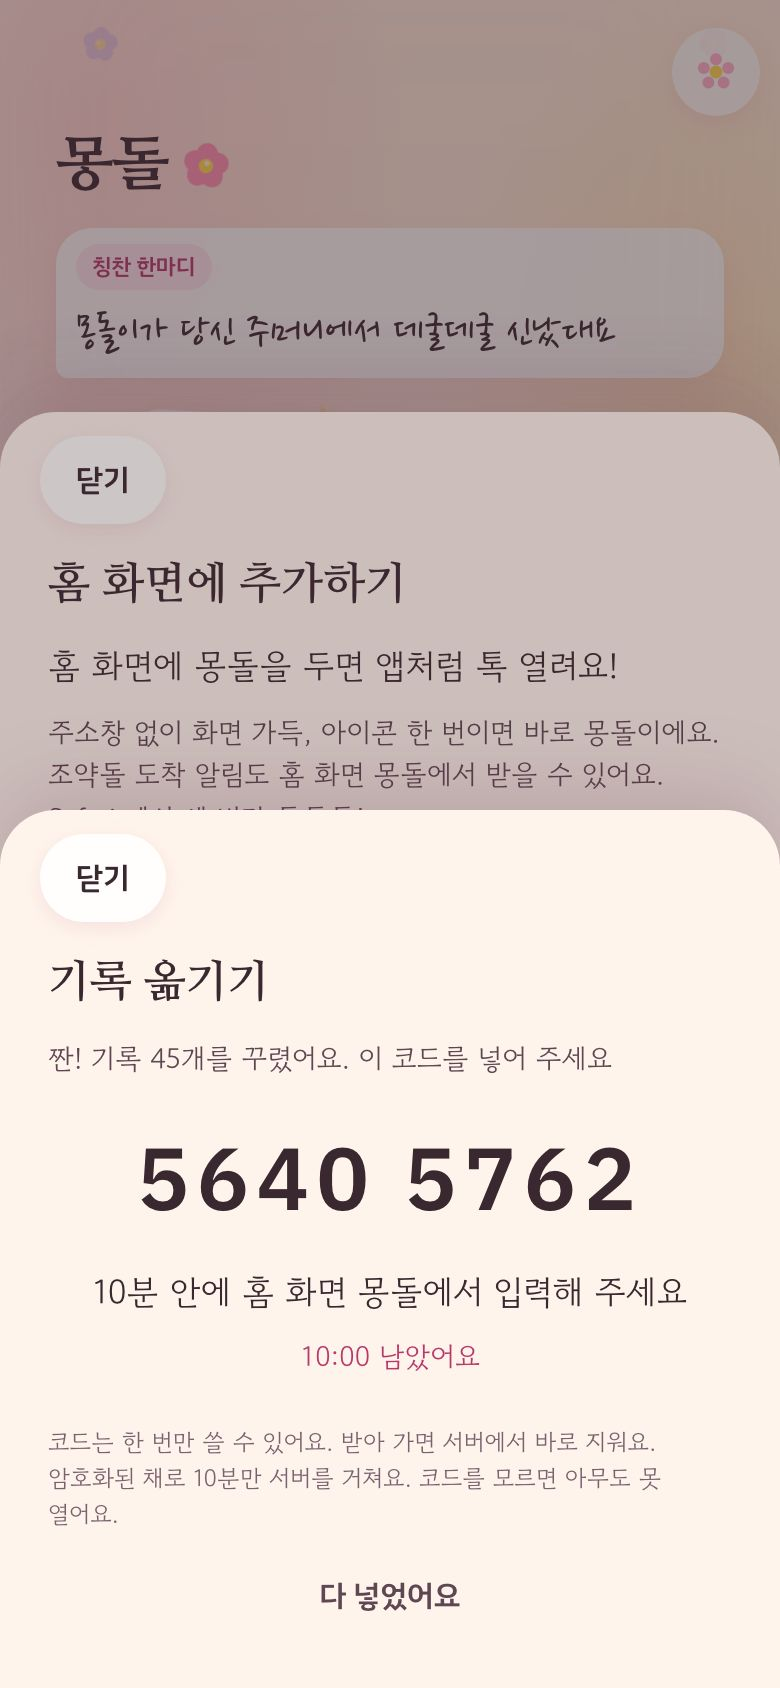
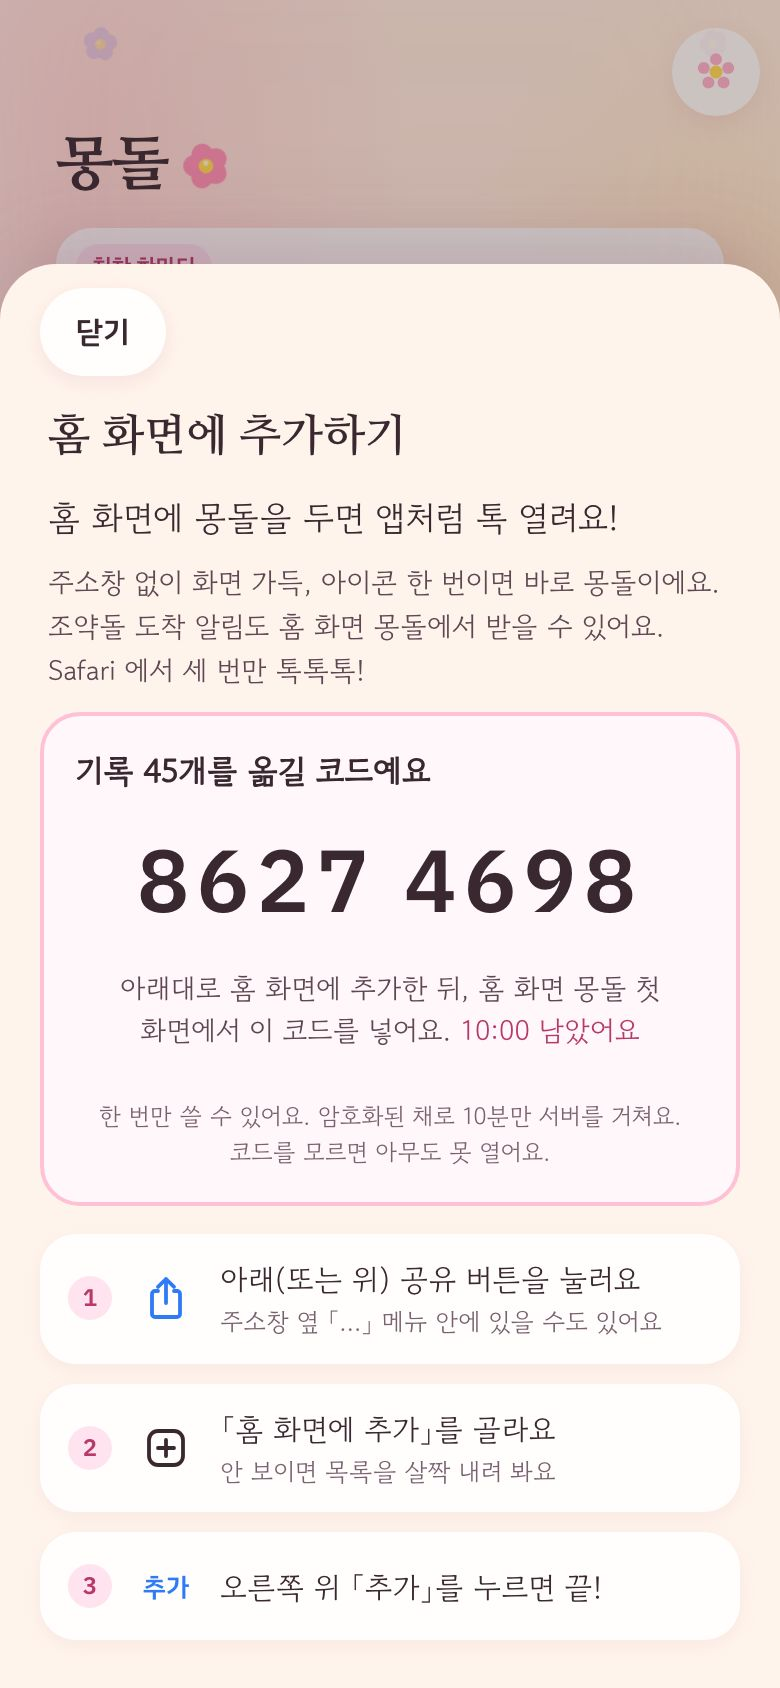
fix(몽돌 웹): 기록 옮기기 코드를 홈 화면 안내 안에 — 덮개 창 없이 그 자리에서
Tabber 실기기 피드백: 코드를 만들면 안내 위에 창이 하나 더 떠서 닫아야 다음으로 갈 것 같고,
「① 기록 옮길 코드 받기」가 누르면 코드가 만들어지는 버튼인지도 몰랐다.
- 홈 화면 안내 맨 위에 「기록 옮길 코드 만들기」 카드. 누르면 그 자리에서 진행률 → 큰 코드 + 남은 시간으로 바뀌고,
  아래 홈 화면 추가 1~3 단계는 그대로 같이 보인다
- 만든 코드는 10분 동안 기억해서 안내를 닫았다 다시 열어도 같은 코드가 보인다(sessionStorage)
- 코드는 누를 때만 만든다 — 안내만 연 사람의 사진까지 서버로 올리지 않게
- 설정의 「기록 옮기기 → 코드 받기」도 같은 카드

Claude-Session: https://claude.ai/code/session_01331J4DJ2JtS2X2wiBSvqr5

diff --git a/Mongdol-ENFP-Web/js/transfer.js b/Mongdol-ENFP-Web/js/transfer.js
@@ -152,6 +152,71 @@ const bar = () => {
   } };
 };
 
+// 만든 코드는 10분 동안 기억한다 — 안내를 닫았다 다시 열어도 같은 코드가 보여야 홈 화면에 추가하는 동안 잃지 않는다.
+const ACTIVE = 'mongdol.xferActive';
+const activeCode = () => {
+  try {
+    const a = JSON.parse(sessionStorage.getItem(ACTIVE) || 'null');
+    return a && a.until > Date.now() ? a : null;
+  } catch { return null; }
+};
+const rememberCode = (a) => { try { sessionStorage.setItem(ACTIVE, JSON.stringify(a)); } catch { /* 이번 화면만 */ } };
+
+/**
+ * 「기록 옮길 코드」 카드 — 안내 안에 그대로 붙어 있고, 누르면 그 자리에서 코드로 바뀐다(덮개 창 없음).
+ * 코드는 누를 때만 만든다: 안내만 연 사람의 사진까지 서버로 올리지 않게.
+ */
+export function carryCard(store) {
+  const card = h('div', { class: 'xfer-card' });
+  let timer = 0;
+  const show = (...kids) => { clearInterval(timer); card.replaceChildren(...kids.filter(Boolean)); };
+
+  const idle = () => show(
+    h('p', { class: 'xfer-card-title' }, '지금까지 담은 기록도 같이 데려가요'),
+    h('p', { class: 'xfer-card-sub' }, `홈 화면 몽돌은 새로 시작해요. 코드를 만들어 두고 홈 화면 몽돌을 처음 열 때 넣으면 기록 ${store.all.size}개가 따라와요.`),
+    h('button', { class: 'btn primary xfer-go', onClick: make }, '기록 옮길 코드 만들기'));
+
+  async function make() {
+    const b = bar();
+    show(h('p', { class: 'xfer-card-title' }, `기록 ${store.all.size}개를 꼭꼭 싸는 중이에요`), b.el);
+    b.set('코드 만드는 중…', 0, 1);
+    try {
+      const out = await sendRecords((done, total) => b.set(`코드 만드는 중 ${done}/${total}`, done, total));
+      const a = { code: out.code, until: Date.now() + out.ttl * 1000, moments: out.moments };
+      rememberCode(a);
+      code(a);
+    } catch (e) {
+      if (e?.kind !== 'too-big' && e?.kind !== 'limited') console.warn('transfer send', e);
+      show(h('p', { class: 'xfer-error' }, errText(e, SEND_ERR)),
+        e?.kind === 'too-big' ? null : h('button', { class: 'btn primary xfer-go', onClick: make }, '다시 만들기'));
+    }
+  }
+
+  function code({ code: c, until, moments }) {
+    const left = h('span', { class: 'xfer-left num' });
+    const tick = () => {
+      const s = Math.max(0, Math.round((until - Date.now()) / 1000));
+      left.textContent = `${Math.floor(s / 60)}:${String(s % 60).padStart(2, '0')} 남았어요`;
+      if (s === 0) {
+        try { sessionStorage.removeItem(ACTIVE); } catch { /* 무시 */ }
+        show(h('p', { class: 'xfer-card-title' }, '코드 시간이 다 됐어요'),
+          h('button', { class: 'btn primary xfer-go', onClick: make }, '코드 새로 만들기'));
+      }
+    };
+    show(
+      h('p', { class: 'xfer-card-title' }, `기록 ${moments}개를 옮길 코드예요`),
+      h('p', { class: 'xfer-code num', 'aria-label': c.split('').join(' ') }, formatCode(c)),
+      h('p', { class: 'xfer-card-sub xfer-center' }, '아래대로 홈 화면에 추가한 뒤, 홈 화면 몽돌 첫 화면에서 이 코드를 넣어요. ', left),
+      h('p', { class: 'fine xfer-center' }, `한 번만 쓸 수 있어요. ${PRIVACY}`));
+    tick();
+    timer = setInterval(tick, 1000);
+  }
+
+  const a = activeCode();
+  if (a) code(a); else idle();
+  return card;
+}
+
 /**
  * mode: 'choose'(설정 — 받기·넣기 둘 다) | 'send' | 'receive'
  * onReceived({added, skipped}): 받기를 마치고 「좋아요」를 누른 뒤
@@ -183,50 +248,7 @@ export function openTransferSheet({ store, mode = 'choose', onReceived }) {
       show(h('p', { class: 'inst-detail' }, '아직 옮길 기록이 없어요. 한 장 담고 나서 다시 와 주세요!'));
       return;
     }
-    const n = store.all.size;
-    const go = async () => {
-      const b = bar();
-      show(h('p', { class: 'inst-lead' }, `기록 ${n}개를 꼭꼭 싸는 중이에요`), b.el, h('p', { class: 'fine' }, PRIVACY));
-      b.set('옮길 준비 중…', 0, 1);
-      busy = true;
-      try {
-        const out = await sendRecords((done, total) => b.set(`옮길 준비 중 ${done}/${total}`, done, total));
-        busy = false;
-        codeView(out);
-      } catch (e) {
-        busy = false;
-        if (e?.kind !== 'too-big' && e?.kind !== 'limited') console.warn('transfer send', e);
-        show(h('p', { class: 'xfer-error' }, errText(e, SEND_ERR)),
-          e?.kind === 'too-big' ? null : h('button', { class: 'btn primary', onClick: go }, '다시 해 볼게요'));
-      }
-    };
-    show(
-      h('p', { class: 'inst-lead' }, `지금까지 담은 기록 ${n}개를 옮길 코드를 만들어요!`),
-      h('p', { class: 'inst-detail' }, '코드를 받으면 10분 안에 홈 화면 몽돌(또는 새 기기)에서 넣어 주세요. 사진도 같이 가요.'),
-      h('button', { class: 'btn primary xfer-go', onClick: go }, '코드 받기'),
-      h('p', { class: 'fine' }, PRIVACY));
-  }
-
-  function codeView({ code, ttl, moments }) {
-    const until = Date.now() + ttl * 1000;
-    const left = h('p', { class: 'xfer-left num' });
-    const tick = () => {
-      const s = Math.max(0, Math.round((until - Date.now()) / 1000));
-      left.textContent = s > 0 ? `${Math.floor(s / 60)}:${String(s % 60).padStart(2, '0')} 남았어요` : '';
-      if (s === 0) {
-        clearInterval(timer);
-        show(h('p', { class: 'inst-lead' }, '시간이 다 됐어요. 코드를 다시 받아 주세요!'), h('button', { class: 'btn primary', onClick: send }, '코드 다시 받기'));
-      }
-    };
-    show(
-      h('p', { class: 'inst-detail' }, `짠! 기록 ${moments}개를 꾸렸어요. 이 코드를 넣어 주세요`),
-      h('p', { class: 'xfer-code num', 'aria-label': code.split('').join(' ') }, formatCode(code)),
-      h('p', { class: 'inst-lead xfer-center' }, '10분 안에 홈 화면 몽돌에서 입력해 주세요'),
-      left,
-      h('p', { class: 'fine' }, `코드는 한 번만 쓸 수 있어요. 받아 가면 서버에서 바로 지워요. ${PRIVACY}`),
-      h('button', { class: 'btn ghost', onClick: close }, '다 넣었어요'));
-    tick();
-    timer = setInterval(tick, 1000);
+    show(carryCard(store));
   }
 
   function receive() {

diff --git a/Mongdol-ENFP-Web/js/install.js b/Mongdol-ENFP-Web/js/install.js
@@ -83,36 +83,29 @@ const step = (n, icon, text, sub) => h('li', { class: 'inst-step' },
   h('span', { class: 'inst-icon', html: icon }),
   h('span', { class: 'inst-text' }, text, sub ? h('small', null, sub) : null));
 
-// 기록이 있는 브라우저에서만 맨 앞에 — 홈 화면 몽돌은 저장소가 따로라 코드로 기록을 데려간다(transfer.js).
-const transferStep = (n, onTransfer) => h('li', { class: 'inst-step xfer-step' },
-  h('button', { class: 'xfer-step-btn', onClick: onTransfer },
-    h('span', { class: 'inst-num num' }, n),
-    h('span', { class: 'inst-icon', html: ICON.code }),
-    h('span', { class: 'inst-text' }, '지금까지 담은 기록 옮길 코드 받기', h('small', null, '홈 화면 몽돌을 처음 열 때 이 코드를 넣으면 기록이 따라와요'))));
-
 const appIcon = () => h('img', { class: 'inst-app', src: './icons/icon-180.png', alt: '', width: 72, height: 72 });
 
 /**
  * 환경에 맞는 안내 한 벌 — 온보딩 한 장과 설정 시트가 같이 쓴다.
  * hasRecords: 이 브라우저에 기록이 있는지(iPhone 은 홈 화면 앱과 저장소가 따로라 미리 알린다).
- * onTransfer: 있으면 기록이 있을 때 「① 기록 옮길 코드 받기」를 맨 앞에 둔다.
+ * carry: 기록이 있을 때 안내 위에 붙일 「기록 옮길 코드」 카드를 만드는 함수(transfer.js carryCard).
  */
-export function installGuide({ hasRecords = false, onTransfer = null } = {}) {
+export function installGuide({ hasRecords = false, carry = null } = {}) {
   const env = installEnv();
   const title = '홈 화면에 몽돌을 두면 앱처럼 톡 열려요!';
   let scene, detail, note = null, actions = null;
 
   if (env === 'ios') {
     detail = '주소창 없이 화면 가득, 아이콘 한 번이면 바로 몽돌이에요. 조약돌 도착 알림도 홈 화면 몽돌에서 받을 수 있어요. Safari 에서 세 번만 톡톡톡!';
-    const carry = hasRecords && onTransfer;
-    const o = carry ? 1 : 0;
-    scene = h('ol', { class: 'inst-steps' },
-      carry ? transferStep(1, onTransfer) : null,
-      step(1 + o, ICON.share, '아래(또는 위) 공유 버튼을 눌러요', '주소창 옆 「…」 메뉴 안에 있을 수도 있어요'),
-      step(2 + o, ICON.add, '「홈 화면에 추가」를 골라요', '안 보이면 목록을 살짝 내려 봐요'),
-      step(3 + o, ICON.done, '오른쪽 위 「추가」를 누르면 끝!'));
-    note = carry
-      ? '잠깐! iPhone 은 홈 화면 몽돌이 새로 시작해요. ①에서 받은 코드를 홈 화면 몽돌 첫 화면 「Safari에서 쓰던 기록 가져오기」에 넣으면 지금까지 담은 기록이 따라와요.'
+    const card = hasRecords && carry ? carry() : null;
+    scene = h('div', { class: 'inst-ios' },
+      card,
+      h('ol', { class: 'inst-steps' },
+        step(1, ICON.share, '아래(또는 위) 공유 버튼을 눌러요', '주소창 옆 「…」 메뉴 안에 있을 수도 있어요'),
+        step(2, ICON.add, '「홈 화면에 추가」를 골라요', '안 보이면 목록을 살짝 내려 봐요'),
+        step(3, ICON.done, '오른쪽 위 「추가」를 누르면 끝!')));
+    note = card
+      ? null
       : hasRecords
         ? '잠깐! iPhone 은 홈 화면에서 열면 몽돌이 새로 시작해요. 지금까지 담은 건 이 Safari 에 그대로 남아 있어요.'
         : 'iPhone 은 홈 화면 몽돌과 Safari 몽돌이 기록을 따로 담아요. 한쪽에서만 써 주세요!';
@@ -148,10 +141,10 @@ export function installGuide({ hasRecords = false, onTransfer = null } = {}) {
 }
 
 /** 설정에서 여는 안내 시트 */
-export function openInstallSheet({ hasRecords = false, onTransfer = null } = {}) {
+export function openInstallSheet({ hasRecords = false, carry = null } = {}) {
   if (layers.has('install')) return;
   layers.add('install');
-  const g = installGuide({ hasRecords, onTransfer });
+  const g = installGuide({ hasRecords, carry });
   const close = () => {
     wrap.classList.remove('in');
     setTimeout(() => { wrap.remove(); layers.remove('install'); }, 300);

diff --git a/Mongdol-ENFP-Web/js/main.js b/Mongdol-ENFP-Web/js/main.js
@@ -11,7 +11,7 @@ import { showOnboarding } from './onboarding.js';
 import { openSettings } from './settings.js';
 import { openInstallSheet } from './install.js';
 import { startPushSync } from './push.js';
-import { openTransferSheet } from './transfer.js';
+import { openTransferSheet, carryCard } from './transfer.js';
 import { fillSample } from './sample.js';
 import { warmUp } from './pebble-gl.js';
 import { layers, toast, confirmDialog } from './dom.js';
@@ -106,10 +106,10 @@ async function boot() {
   });
   tabs.watch(document.getElementById('home'));
   tabs.watch(document.getElementById('collection'));
-  const sendRecords = () => openTransferSheet({ store, mode: 'send' });
+  const carry = () => carryCard(store);
   document.getElementById('settings-btn').addEventListener('click', () => openSettings({
     onSample: runSample, onClear: clearAll,
-    onInstall: () => openInstallSheet({ hasRecords: !store.isEmpty, onTransfer: sendRecords }),
+    onInstall: () => openInstallSheet({ hasRecords: !store.isEmpty, carry }),
     onTransfer: () => openTransferSheet({ store, mode: 'choose', onReceived: () => home.scrollToTop() }),
   }));
 
@@ -126,7 +126,7 @@ async function boot() {
       onStart: () => meta.set('onboarded', true),
       onSample: () => { meta.set('onboarded', true); runSample(); },
       onReceive: (done) => openTransferSheet({ store, mode: 'receive', onReceived: done }),
-      onTransfer: sendRecords,
+      carry,
       hasRecords: !store.isEmpty,
     });
   } else {

diff --git a/Mongdol-ENFP-Web/js/onboarding.js b/Mongdol-ENFP-Web/js/onboarding.js
@@ -100,8 +100,8 @@ function reminderPage(followsArrival) {
   };
 }
 
-function installPage(hasRecords, onTransfer) {
-  const g = installGuide({ hasRecords, onTransfer });
+function installPage(hasRecords, carry) {
+  const g = installGuide({ hasRecords, carry });
   return {
     scene: () => h('div', { class: 'ob-scene inst' }, g.scene),
     title: g.title,
@@ -110,7 +110,7 @@ function installPage(hasRecords, onTransfer) {
   };
 }
 
-export function showOnboarding({ onStart, onSample, onReceive, onTransfer, hasRecords = false }) {
+export function showOnboarding({ onStart, onSample, onReceive, carry, hasRecords = false }) {
   layers.add('onboarding');
   const pages = [
     {
@@ -131,7 +131,7 @@ export function showOnboarding({ onStart, onSample, onReceive, onTransfer, hasRe
       detail: '오늘 담은 건 자정(새벽 4시)에 조약돌로 변신해요. 마음이 급하면 「오늘 마무리하고 조약돌 받기」로 먼저 받아도 돼요.',
     },
   ];
-  if (canOfferInstall()) pages.splice(1, 0, installPage(hasRecords, onTransfer));
+  if (canOfferInstall()) pages.splice(1, 0, installPage(hasRecords, carry));
   if (isStandalone() && pushSupported()) {
     const asks = Notification.permission === 'default';
     pages.splice(1, 0, ...(asks ? [arrivalPage()] : []), reminderPage(asks));

diff --git a/Mongdol-ENFP-Web/styles.css b/Mongdol-ENFP-Web/styles.css
@@ -625,5 +625,9 @@ p, h1, h2, h3 { margin: 0; }
 .xfer-fill { display: block; height: 100%; width: 0; border-radius: 10px; background: linear-gradient(90deg, #FFE066, #FFB0A0); transition: width 0.25s ease-out; }
 .xfer-progress { margin: 0; text-align: center; font-size: 14px; color: var(--ink2); font-variant-numeric: tabular-nums; }
 .xfer-done { margin: 10px 0 2px; text-align: center; font-family: var(--serif); font-weight: 700; font-size: 21px; line-height: 1.5; color: var(--ink1); }
-.xfer-step { padding: 0; }
-.xfer-step-btn { display: flex; align-items: center; gap: 12px; width: 100%; padding: 12px 14px; border: 2px solid #FFC1D6; border-radius: 18px; background: #FFF7FA; text-align: left; font: inherit; color: inherit; }
+.inst-ios { display: flex; flex-direction: column; gap: 14px; }
+.xfer-card { display: flex; flex-direction: column; gap: 8px; padding: 16px; border: 2px solid #FFC1D6; border-radius: 20px; background: #FFF7FA; }
+.xfer-card-title { margin: 0; font-size: 16px; font-weight: 700; color: var(--ink1); line-height: 1.45; }
+.xfer-card-sub { margin: 0; font-size: 14px; color: var(--ink2); line-height: 1.55; }
+.xfer-card .xfer-code { margin: 2px 0; }
+.xfer-card .xfer-left { display: inline; }
